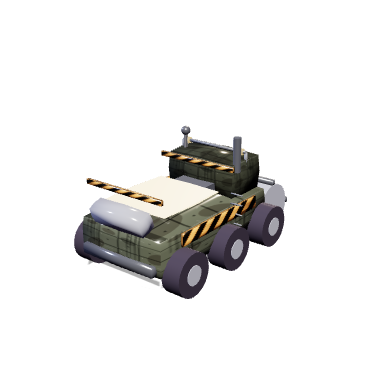
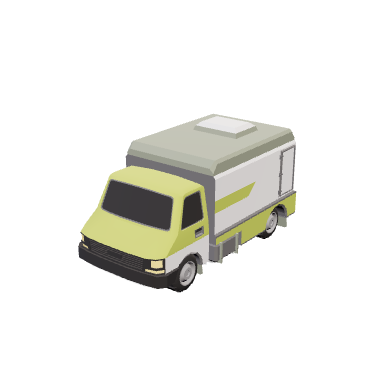
Quaternius CC0 apc + harvester live

Changed region(s): [[0.1875, 0.2812, 0.7812, 0.7812]]

diff --git a/index.html b/index.html
@@ -3469,6 +3469,8 @@ aiTick=function(dt){
   /* --- registered CC0 models (Quaternius, CC0 1.0) ----------------------- */
   MODELS.tank   = { url:'assets/models/tank.glb',   targetH:2.4, yaw:0 };
   MODELS.dogbot = { url:'assets/models/dogbot.glb', targetH:2.2, yaw:0 };  /* Mech, Drone Dog slot */
+  MODELS.apc       = { url:'assets/models/apc.glb',       targetH:2.4, yaw:0 };
+  MODELS.harvester = { url:'assets/models/harvester.glb', targetH:2.8, yaw:0 };
 
   if(Object.keys(MODELS).length) window.__loadModels();
 })();

diff --git a/assets/models/CREDITS.md b/assets/models/CREDITS.md
@@ -1,8 +1,9 @@
 # Model credits
 
 All models below are by Quaternius (poly.pizza / quaternius.com), licence CC0 1.0
-(public domain, no attribution required). Listed here for provenance only.
+(public domain, no attribution required). Listed for provenance only.
 
-- tank.glb   -> Tank  (2,800 tris) : tank unit
-- dogbot.glb -> Mech  (5,846 tris) : Drone Dog slot (biped mech placeholder;
-                swap for a quadruped later if desired)
+- tank.glb      -> Tank          (2,800 tris)  : tank unit
+- dogbot.glb    -> Mech          (5,846 tris)  : Drone Dog slot (biped placeholder)
+- apc.glb       -> Truck Armored (14,204 tris) : APC unit
+- harvester.glb -> Truck         (5,546 tris)  : harvester unit